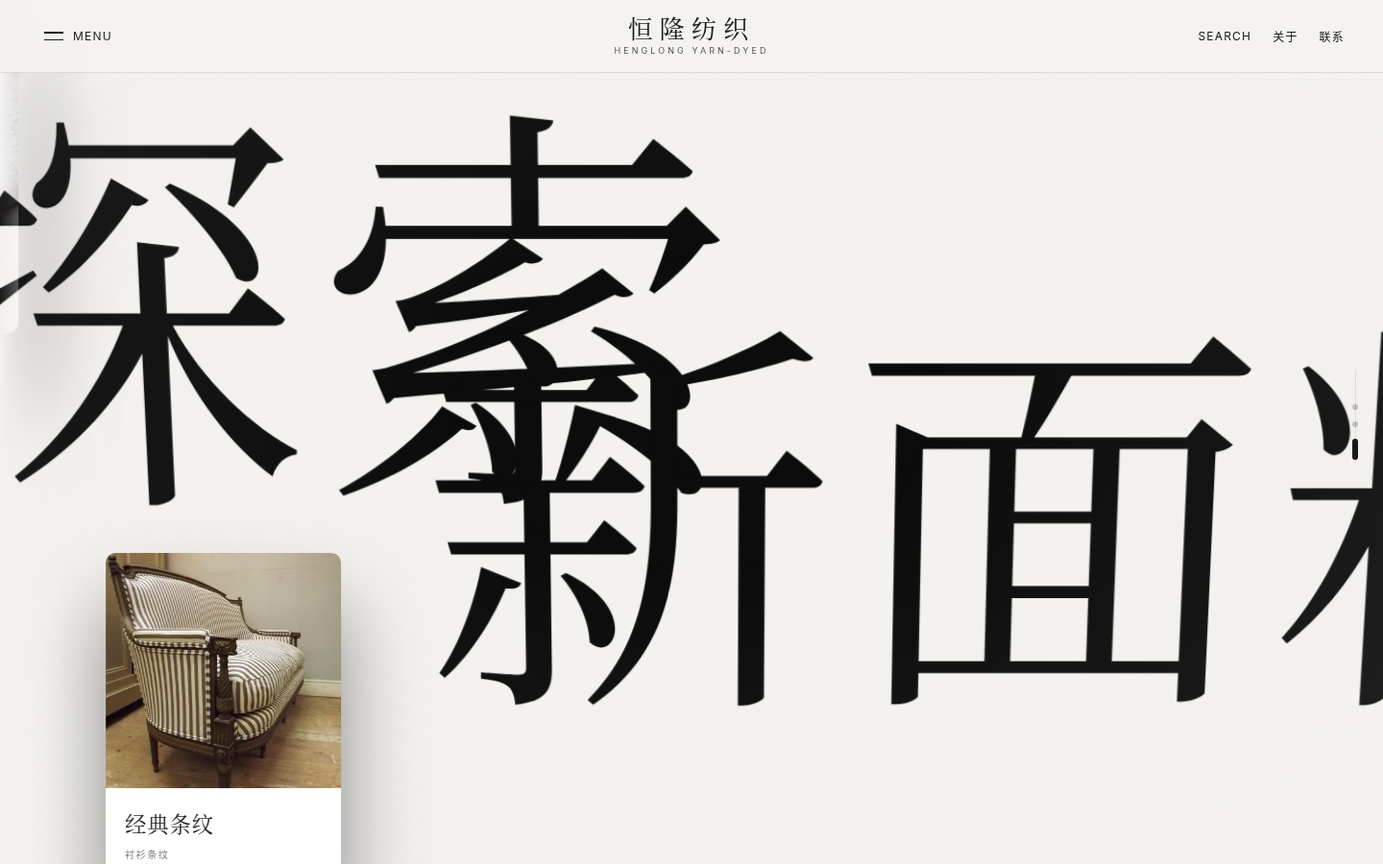
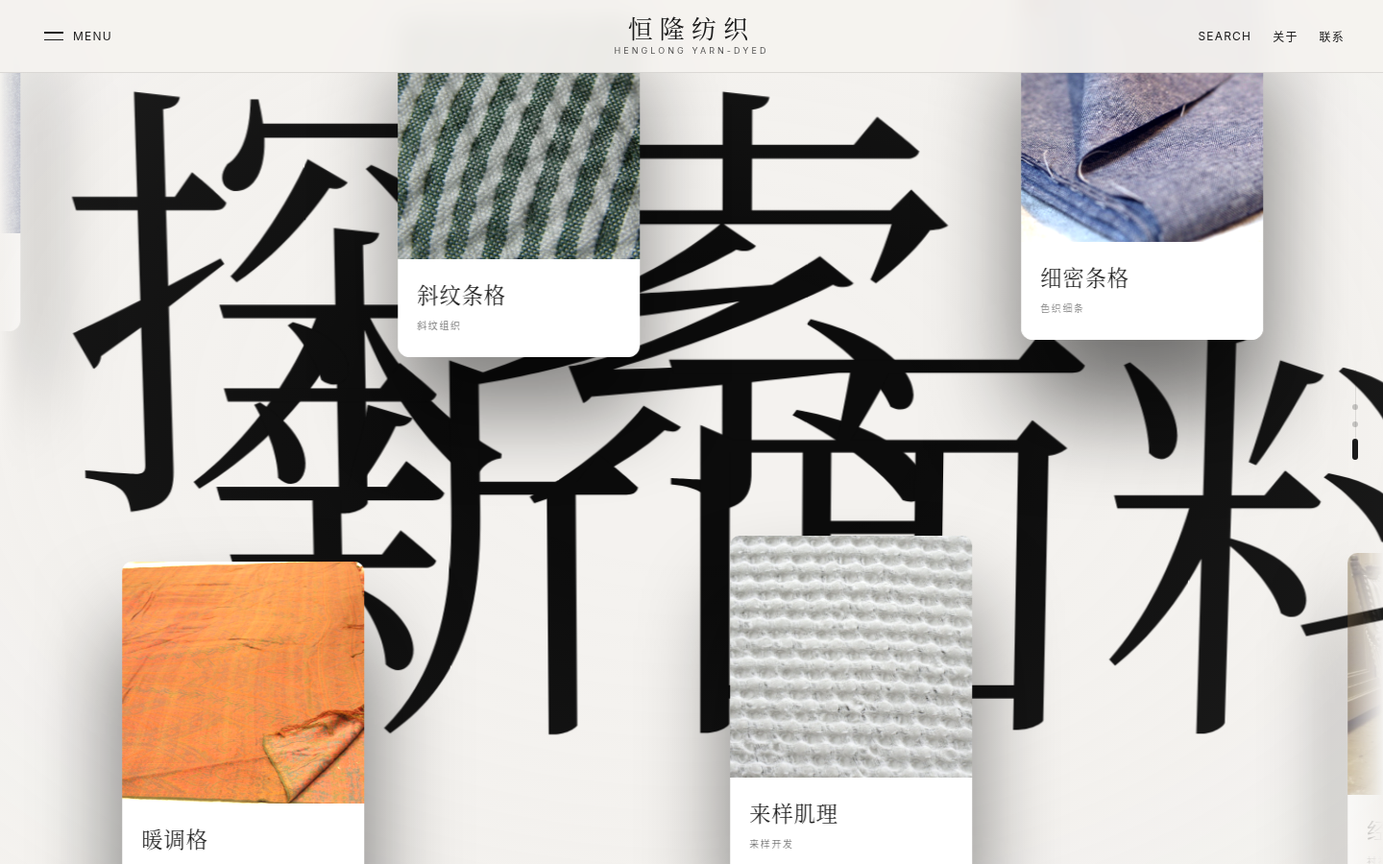
Polish home scroll-stage v23 vs Etro Textiles effect fidelity
Gentler --hw lead for richer midwipe fabric, wider soft curtain, denser
mid-cross cards, stronger lean/tilt, softer spring ω≈1.85/1.4, 2320vh pin.

diff --git a/frame-cards.html b/frame-cards.html
@@ -3,8 +3,8 @@
 <meta charset="utf-8"/><meta name="viewport" content="width=device-width,initial-scale=1"/>
 <title>Stage frame · cards</title>
 <link href="https://fonts.googleapis.com/css2?family=Bodoni+Moda:opsz,wght@6..96,400;6..96,500&family=Inter:wght@300;400;500&display=swap" rel="stylesheet"/>
-<link rel="stylesheet" href="css/style.css?v=22"/>
-<link rel="stylesheet" href="css/effects.css?v=22"/>
+<link rel="stylesheet" href="css/style.css?v=23"/>
+<link rel="stylesheet" href="css/effects.css?v=23"/>
 <style>
   body{margin:0;overflow:hidden;background:#F4F2EF}
   .site-header{position:fixed}
@@ -23,12 +23,12 @@
   <div class="header-right"><a href="products.html">Search</a><a href="about.html">关于</a><a href="contact.html">联系</a></div>
 </header>
 
-<section class="stage" data-stage data-phase="2" style="--p0:1;--hp:1;--hp2:1;--hw:1;--fp:0.72;--sp:0.6;--gs:0.8;--hold:0;--pop:0;--cross:0.88;--scrub:0;--depth:0.78;--ps:0.74;--p:0.74">
+<section class="stage" data-stage data-phase="2" style="--p0:1;--hp:1;--hp2:1;--hw:1;--fp:0.48;--sp:0.28;--gs:0.87;--hold:0;--pop:0;--cross:0.9;--scrub:0;--depth:0.5;--ps:0.62;--p:0.62">
   <div class="stage-pin">
     <div class="stage-cream" aria-hidden="true"></div>
     <div class="stage-giant" aria-hidden="true"><span class="g1">探索</span><span class="g2">新面料</span></div>
     <div class="stage-veil" aria-hidden="true"></div>
-    <div class="stage-floats"><div class="track"><a class="float-card" data-row="0" href="products.html" style="--row:0;--mx:0px;--r:-24deg;--t:-2vh;--d:0;--bob:12;--rowy:129.5;--lean:-11.2deg;--zi:48;--lift:28;--fs:1.17;--z:60px;--ry:-22deg;--rx:-9;--enter:1;--vis:1;--tilt:-12deg;--spin:0deg;--prox:0.70;--punch:0.52;opacity:1"><div class="fc-img"><img src="images/web/hl-01.jpg" alt="格伦格纹"/></div><div class="fc-label"><strong>格伦格纹</strong><span>色织条格</span></div></a><a class="float-card" data-row="1" href="products.html" style="--row:1;--mx:32px;--r:22deg;--t:63vh;--d:1;--bob:-10;--rowy:-139.1;--lean:12.7deg;--zi:57;--lift:35;--fs:1.17;--z:78px;--ry:22deg;--rx:-11;--enter:1;--vis:1;--tilt:12deg;--spin:0deg;--prox:0.80;--punch:0.67;opacity:1"><div class="fc-img"><img src="images/web/hl-02.jpg" alt="苏格兰纹"/></div><div class="fc-label"><strong>苏格兰纹</strong><span>格纹色织</span></div></a><a class="float-card" data-row="0" href="products.html" style="--row:0;--mx:-22px;--r:-21deg;--t:3vh;--d:2;--bob:16;--rowy:148.7;--lean:-14.2deg;--zi:62;--lift:42;--fs:1.17;--z:96px;--ry:-22deg;--rx:-9;--enter:1;--vis:1;--tilt:-12deg;--spin:0deg;--prox:0.90;--punch:0.82;opacity:1"><div class="fc-img"><img src="images/web/hl-05.jpg" alt="衬衫条纹"/></div><div class="fc-label"><strong>衬衫条纹</strong><span>衬衫向</span></div></a><a class="float-card" data-row="1" href="products.html" style="--row:1;--mx:40px;--r:23deg;--t:61vh;--d:3;--bob:-8;--rowy:-129.5;--lean:11.2deg;--zi:50;--lift:28;--fs:1.17;--z:60px;--ry:22deg;--rx:-11;--enter:1;--vis:1;--tilt:12deg;--spin:0deg;--prox:0.70;--punch:0.52;opacity:1"><div class="fc-img"><img src="images/web/mosaic-1.jpg" alt="多色格"/></div><div class="fc-label"><strong>多色格</strong><span>色织格纹</span></div></a><a class="float-card" data-row="0" href="products.html" style="--row:0;--mx:-14px;--r:-22deg;--t:-1vh;--d:4;--bob:11;--rowy:139.1;--lean:-12.7deg;--zi:55;--lift:35;--fs:1.17;--z:78px;--ry:-22deg;--rx:-9;--enter:1;--vis:1;--tilt:-12deg;--spin:0deg;--prox:0.80;--punch:0.67;opacity:1"><div class="fc-img"><img src="images/web/hl-04.jpg" alt="岩灰素织"/></div><div class="fc-label"><strong>岩灰素织</strong><span>素色色织</span></div></a><a class="float-card" data-row="1" href="products.html" style="--row:1;--mx:46px;--r:21deg;--t:65vh;--d:5;--bob:-15;--rowy:-148.7;--lean:14.2deg;--zi:64;--lift:42;--fs:1.17;--z:96px;--ry:22deg;--rx:-11;--enter:1;--vis:1;--tilt:12deg;--spin:0deg;--prox:0.90;--punch:0.82;opacity:1"><div class="fc-img"><img src="images/web/hl-07.jpg" alt="暖调格"/></div><div class="fc-label"><strong>暖调格</strong><span>家纺格调</span></div></a><a class="float-card" data-row="0" href="products.html" style="--row:0;--mx:-26px;--r:-23deg;--t:2vh;--d:6;--bob:9;--rowy:129.5;--lean:-11.2deg;--zi:48;--lift:28;--fs:1.17;--z:60px;--ry:-22deg;--rx:-9;--enter:1;--vis:1;--tilt:-12deg;--spin:0deg;--prox:0.70;--punch:0.52;opacity:1"><div class="fc-img"><img src="images/web/hl-06.jpg" alt="斜纹条格"/></div><div class="fc-label"><strong>斜纹条格</strong><span>斜纹组织</span></div></a><a class="float-card" data-row="1" href="products.html" style="--row:1;--mx:34px;--r:24deg;--t:62vh;--d:7;--bob:-13;--rowy:-139.1;--lean:12.7deg;--zi:57;--lift:35;--fs:1.17;--z:78px;--ry:22deg;--rx:-11;--enter:1;--vis:1;--tilt:12deg;--spin:0deg;--prox:0.80;--punch:0.67;opacity:1"><div class="fc-img"><img src="images/web/hl-08.jpg" alt="来样肌理"/></div><div class="fc-label"><strong>来样肌理</strong><span>来样开发</span></div></a><a class="float-card" data-row="0" href="products.html" style="--row:0;--mx:-10px;--r:-22deg;--t:0vh;--d:8;--bob:14;--rowy:148.7;--lean:-14.2deg;--zi:62;--lift:42;--fs:1.17;--z:96px;--ry:-22deg;--rx:-9;--enter:1;--vis:1;--tilt:-12deg;--spin:0deg;--prox:0.90;--punch:0.82;opacity:1"><div class="fc-img"><img src="images/web/hl-03.jpg" alt="细密条格"/></div><div class="fc-label"><strong>细密条格</strong><span>色织细条</span></div></a><a class="float-card" data-row="1" href="products.html" style="--row:1;--mx:28px;--r:20deg;--t:64vh;--d:9;--bob:-9;--rowy:-129.5;--lean:11.2deg;--zi:50;--lift:28;--fs:1.17;--z:60px;--ry:22deg;--rx:-11;--enter:1;--vis:1;--tilt:12deg;--spin:0deg;--prox:0.70;--punch:0.52;opacity:1"><div class="fc-img"><img src="images/web/stripes.jpg" alt="经典条纹"/></div><div class="fc-label"><strong>经典条纹</strong><span>衬衫条纹</span></div></a></div></div>
+    <div class="stage-floats"><div class="track"><a class="float-card" data-row="0" href="products.html" style="--row:0;--mx:0px;--r:-27deg;--t:-2vh;--d:0;--bob:12;--rowy:109.4;--lean:-16.7deg;--zi:49;--lift:28;--fs:1.18;--z:62px;--ry:-24deg;--rx:-10;--enter:1;--vis:1;--tilt:-13deg;--spin:0deg;--prox:0.72;--punch:0.55;opacity:1"><div class="fc-img"><img src="images/web/hl-01.jpg" alt="格伦格纹"/></div><div class="fc-label"><strong>格伦格纹</strong><span>色织条格</span></div></a><a class="float-card" data-row="1" href="products.html" style="--row:1;--mx:32px;--r:26deg;--t:63vh;--d:1;--bob:-10;--rowy:-118.3;--lean:18.7deg;--zi:58;--lift:35;--fs:1.18;--z:80px;--ry:24deg;--rx:-12;--enter:1;--vis:1;--tilt:13deg;--spin:0deg;--prox:0.81;--punch:0.69;opacity:1"><div class="fc-img"><img src="images/web/hl-02.jpg" alt="苏格兰纹"/></div><div class="fc-label"><strong>苏格兰纹</strong><span>格纹色织</span></div></a><a class="float-card" data-row="0" href="products.html" style="--row:0;--mx:-22px;--r:-25deg;--t:3vh;--d:2;--bob:16;--rowy:127.3;--lean:-20.6deg;--zi:62;--lift:42;--fs:1.18;--z:98px;--ry:-24deg;--rx:-10;--enter:1;--vis:1;--tilt:-13deg;--spin:0deg;--prox:0.90;--punch:0.83;opacity:1"><div class="fc-img"><img src="images/web/hl-05.jpg" alt="衬衫条纹"/></div><div class="fc-label"><strong>衬衫条纹</strong><span>衬衫向</span></div></a><a class="float-card" data-row="1" href="products.html" style="--row:1;--mx:40px;--r:27deg;--t:61vh;--d:3;--bob:-8;--rowy:-109.4;--lean:16.7deg;--zi:51;--lift:28;--fs:1.18;--z:62px;--ry:24deg;--rx:-12;--enter:1;--vis:1;--tilt:13deg;--spin:0deg;--prox:0.72;--punch:0.55;opacity:1"><div class="fc-img"><img src="images/web/mosaic-1.jpg" alt="多色格"/></div><div class="fc-label"><strong>多色格</strong><span>色织格纹</span></div></a><a class="float-card" data-row="0" href="products.html" style="--row:0;--mx:-14px;--r:-26deg;--t:-1vh;--d:4;--bob:11;--rowy:118.3;--lean:-18.7deg;--zi:56;--lift:35;--fs:1.18;--z:80px;--ry:-24deg;--rx:-10;--enter:1;--vis:1;--tilt:-13deg;--spin:0deg;--prox:0.81;--punch:0.69;opacity:1"><div class="fc-img"><img src="images/web/hl-04.jpg" alt="岩灰素织"/></div><div class="fc-label"><strong>岩灰素织</strong><span>素色色织</span></div></a><a class="float-card" data-row="1" href="products.html" style="--row:1;--mx:46px;--r:25deg;--t:65vh;--d:5;--bob:-15;--rowy:-127.3;--lean:20.6deg;--zi:64;--lift:42;--fs:1.18;--z:98px;--ry:24deg;--rx:-12;--enter:1;--vis:1;--tilt:13deg;--spin:0deg;--prox:0.90;--punch:0.83;opacity:1"><div class="fc-img"><img src="images/web/hl-07.jpg" alt="暖调格"/></div><div class="fc-label"><strong>暖调格</strong><span>家纺格调</span></div></a><a class="float-card" data-row="0" href="products.html" style="--row:0;--mx:-26px;--r:-27deg;--t:2vh;--d:6;--bob:9;--rowy:109.4;--lean:-16.7deg;--zi:49;--lift:28;--fs:1.18;--z:62px;--ry:-24deg;--rx:-10;--enter:1;--vis:1;--tilt:-13deg;--spin:0deg;--prox:0.72;--punch:0.55;opacity:1"><div class="fc-img"><img src="images/web/hl-06.jpg" alt="斜纹条格"/></div><div class="fc-label"><strong>斜纹条格</strong><span>斜纹组织</span></div></a><a class="float-card" data-row="1" href="products.html" style="--row:1;--mx:34px;--r:28deg;--t:62vh;--d:7;--bob:-13;--rowy:-118.3;--lean:18.7deg;--zi:58;--lift:35;--fs:1.18;--z:80px;--ry:24deg;--rx:-12;--enter:1;--vis:1;--tilt:13deg;--spin:0deg;--prox:0.81;--punch:0.69;opacity:1"><div class="fc-img"><img src="images/web/hl-08.jpg" alt="来样肌理"/></div><div class="fc-label"><strong>来样肌理</strong><span>来样开发</span></div></a><a class="float-card" data-row="0" href="products.html" style="--row:0;--mx:-10px;--r:-26deg;--t:0vh;--d:8;--bob:14;--rowy:127.3;--lean:-20.6deg;--zi:62;--lift:42;--fs:1.18;--z:98px;--ry:-24deg;--rx:-10;--enter:1;--vis:1;--tilt:-13deg;--spin:0deg;--prox:0.90;--punch:0.83;opacity:1"><div class="fc-img"><img src="images/web/hl-03.jpg" alt="细密条格"/></div><div class="fc-label"><strong>细密条格</strong><span>色织细条</span></div></a><a class="float-card" data-row="1" href="products.html" style="--row:1;--mx:28px;--r:24deg;--t:64vh;--d:9;--bob:-9;--rowy:-109.4;--lean:16.7deg;--zi:51;--lift:28;--fs:1.18;--z:62px;--ry:24deg;--rx:-12;--enter:1;--vis:1;--tilt:13deg;--spin:0deg;--prox:0.72;--punch:0.55;opacity:1"><div class="fc-img"><img src="images/web/stripes.jpg" alt="经典条纹"/></div><div class="fc-label"><strong>经典条纹</strong><span>衬衫条纹</span></div></a></div></div>
     <div class="stage-hero" style="opacity:0;pointer-events:none"></div>
     <div class="stage-progress"><i></i><i></i><i></i></div>
   </div>
@@ -36,7 +36,7 @@
 <script>
   const track=document.querySelector('.track');
   const dist=Math.max(track.scrollWidth-innerWidth*0.05,1);
-  track.style.transform='translate3d('+(-0.72*dist)+'px,0,0)';
+  track.style.transform='translate3d('+(-0.48*dist)+'px,0,0)';
   document.documentElement.dataset.shotReady='1';
 </script>
 </body></html>

diff --git a/frame-peek.html b/frame-peek.html
@@ -3,8 +3,8 @@
 <meta charset="utf-8"/><meta name="viewport" content="width=device-width,initial-scale=1"/>
 <title>Stage frame · peek</title>
 <link href="https://fonts.googleapis.com/css2?family=Bodoni+Moda:opsz,wght@6..96,400;6..96,500&family=Inter:wght@300;400;500&display=swap" rel="stylesheet"/>
-<link rel="stylesheet" href="css/style.css?v=22"/>
-<link rel="stylesheet" href="css/effects.css?v=22"/>
+<link rel="stylesheet" href="css/style.css?v=23"/>
+<link rel="stylesheet" href="css/effects.css?v=23"/>
 <style>
   body{margin:0;overflow:hidden;background:#F4F2EF}
   .site-header{position:fixed}
@@ -23,12 +23,12 @@
   <div class="header-right"><a href="products.html">Search</a><a href="about.html">关于</a><a href="contact.html">联系</a></div>
 </header>
 
-<section class="stage" data-stage data-phase="2" style="--p0:1;--hp:1;--hp2:1;--hw:1;--fp:0.16;--sp:0;--gs:0.95;--hold:0.3;--pop:0.12;--cross:0.35;--scrub:0;--depth:0.16;--ps:0.54;--p:0.54">
+<section class="stage" data-stage data-phase="2" style="--p0:1;--hp:1;--hp2:1;--hw:1;--fp:0.18;--sp:0;--gs:0.95;--hold:0.28;--pop:0.1;--cross:0.4;--scrub:0;--depth:0.18;--ps:0.56;--p:0.56">
   <div class="stage-pin">
     <div class="stage-cream" aria-hidden="true"></div>
     <div class="stage-giant" aria-hidden="true"><span class="g1">探索</span><span class="g2">新面料</span></div>
     <div class="stage-veil" aria-hidden="true"></div>
-    <div class="stage-floats"><div class="track"><a class="float-card" data-row="0" href="products.html" style="--row:0;--mx:0px;--r:-24deg;--t:-2vh;--d:0;--bob:12;--rowy:78.0;--lean:-11.2deg;--zi:48;--lift:28;--fs:1.17;--z:60px;--ry:-22deg;--rx:-9;--enter:1;--vis:1;--tilt:-12deg;--spin:0deg;--prox:0.70;--punch:0.52;opacity:1"><div class="fc-img"><img src="images/web/hl-01.jpg" alt="格伦格纹"/></div><div class="fc-label"><strong>格伦格纹</strong><span>色织条格</span></div></a><a class="float-card" data-row="1" href="products.html" style="--row:1;--mx:32px;--r:22deg;--t:63vh;--d:1;--bob:-10;--rowy:-87.6;--lean:12.7deg;--zi:57;--lift:35;--fs:1.17;--z:78px;--ry:22deg;--rx:-11;--enter:1;--vis:1;--tilt:12deg;--spin:0deg;--prox:0.80;--punch:0.67;opacity:1"><div class="fc-img"><img src="images/web/hl-02.jpg" alt="苏格兰纹"/></div><div class="fc-label"><strong>苏格兰纹</strong><span>格纹色织</span></div></a><a class="float-card" data-row="0" href="products.html" style="--row:0;--mx:-22px;--r:-21deg;--t:3vh;--d:2;--bob:16;--rowy:97.2;--lean:-14.2deg;--zi:62;--lift:42;--fs:1.17;--z:96px;--ry:-22deg;--rx:-9;--enter:1;--vis:1;--tilt:-12deg;--spin:0deg;--prox:0.90;--punch:0.82;opacity:1"><div class="fc-img"><img src="images/web/hl-05.jpg" alt="衬衫条纹"/></div><div class="fc-label"><strong>衬衫条纹</strong><span>衬衫向</span></div></a><a class="float-card" data-row="1" href="products.html" style="--row:1;--mx:40px;--r:23deg;--t:61vh;--d:3;--bob:-8;--rowy:-78.0;--lean:11.2deg;--zi:50;--lift:28;--fs:1.17;--z:60px;--ry:22deg;--rx:-11;--enter:1;--vis:1;--tilt:12deg;--spin:0deg;--prox:0.70;--punch:0.52;opacity:1"><div class="fc-img"><img src="images/web/mosaic-1.jpg" alt="多色格"/></div><div class="fc-label"><strong>多色格</strong><span>色织格纹</span></div></a><a class="float-card" data-row="0" href="products.html" style="--row:0;--mx:-14px;--r:-22deg;--t:-1vh;--d:4;--bob:11;--rowy:87.6;--lean:-12.7deg;--zi:55;--lift:35;--fs:1.17;--z:78px;--ry:-22deg;--rx:-9;--enter:1;--vis:1;--tilt:-12deg;--spin:0deg;--prox:0.80;--punch:0.67;opacity:1"><div class="fc-img"><img src="images/web/hl-04.jpg" alt="岩灰素织"/></div><div class="fc-label"><strong>岩灰素织</strong><span>素色色织</span></div></a><a class="float-card" data-row="1" href="products.html" style="--row:1;--mx:46px;--r:21deg;--t:65vh;--d:5;--bob:-15;--rowy:-97.2;--lean:14.2deg;--zi:64;--lift:42;--fs:1.17;--z:96px;--ry:22deg;--rx:-11;--enter:1;--vis:1;--tilt:12deg;--spin:0deg;--prox:0.90;--punch:0.82;opacity:1"><div class="fc-img"><img src="images/web/hl-07.jpg" alt="暖调格"/></div><div class="fc-label"><strong>暖调格</strong><span>家纺格调</span></div></a><a class="float-card" data-row="0" href="products.html" style="--row:0;--mx:-26px;--r:-23deg;--t:2vh;--d:6;--bob:9;--rowy:78.0;--lean:-11.2deg;--zi:48;--lift:28;--fs:1.17;--z:60px;--ry:-22deg;--rx:-9;--enter:1;--vis:1;--tilt:-12deg;--spin:0deg;--prox:0.70;--punch:0.52;opacity:1"><div class="fc-img"><img src="images/web/hl-06.jpg" alt="斜纹条格"/></div><div class="fc-label"><strong>斜纹条格</strong><span>斜纹组织</span></div></a><a class="float-card" data-row="1" href="products.html" style="--row:1;--mx:34px;--r:24deg;--t:62vh;--d:7;--bob:-13;--rowy:-87.6;--lean:12.7deg;--zi:57;--lift:35;--fs:1.17;--z:78px;--ry:22deg;--rx:-11;--enter:1;--vis:1;--tilt:12deg;--spin:0deg;--prox:0.80;--punch:0.67;opacity:1"><div class="fc-img"><img src="images/web/hl-08.jpg" alt="来样肌理"/></div><div class="fc-label"><strong>来样肌理</strong><span>来样开发</span></div></a><a class="float-card" data-row="0" href="products.html" style="--row:0;--mx:-10px;--r:-22deg;--t:0vh;--d:8;--bob:14;--rowy:97.2;--lean:-14.2deg;--zi:62;--lift:42;--fs:1.17;--z:96px;--ry:-22deg;--rx:-9;--enter:1;--vis:1;--tilt:-12deg;--spin:0deg;--prox:0.90;--punch:0.82;opacity:1"><div class="fc-img"><img src="images/web/hl-03.jpg" alt="细密条格"/></div><div class="fc-label"><strong>细密条格</strong><span>色织细条</span></div></a><a class="float-card" data-row="1" href="products.html" style="--row:1;--mx:28px;--r:20deg;--t:64vh;--d:9;--bob:-9;--rowy:-78.0;--lean:11.2deg;--zi:50;--lift:28;--fs:1.17;--z:60px;--ry:22deg;--rx:-11;--enter:1;--vis:1;--tilt:12deg;--spin:0deg;--prox:0.70;--punch:0.52;opacity:1"><div class="fc-img"><img src="images/web/stripes.jpg" alt="经典条纹"/></div><div class="fc-label"><strong>经典条纹</strong><span>衬衫条纹</span></div></a></div></div>
+    <div class="stage-floats"><div class="track"><a class="float-card" data-row="0" href="products.html" style="--row:0;--mx:0px;--r:-27deg;--t:-2vh;--d:0;--bob:12;--rowy:81.8;--lean:-16.7deg;--zi:49;--lift:28;--fs:1.18;--z:62px;--ry:-24deg;--rx:-10;--enter:1;--vis:1;--tilt:-13deg;--spin:0deg;--prox:0.72;--punch:0.55;opacity:1"><div class="fc-img"><img src="images/web/hl-01.jpg" alt="格伦格纹"/></div><div class="fc-label"><strong>格伦格纹</strong><span>色织条格</span></div></a><a class="float-card" data-row="1" href="products.html" style="--row:1;--mx:32px;--r:26deg;--t:63vh;--d:1;--bob:-10;--rowy:-90.7;--lean:18.7deg;--zi:58;--lift:35;--fs:1.18;--z:80px;--ry:24deg;--rx:-12;--enter:1;--vis:1;--tilt:13deg;--spin:0deg;--prox:0.81;--punch:0.69;opacity:1"><div class="fc-img"><img src="images/web/hl-02.jpg" alt="苏格兰纹"/></div><div class="fc-label"><strong>苏格兰纹</strong><span>格纹色织</span></div></a><a class="float-card" data-row="0" href="products.html" style="--row:0;--mx:-22px;--r:-25deg;--t:3vh;--d:2;--bob:16;--rowy:99.7;--lean:-20.6deg;--zi:62;--lift:42;--fs:1.18;--z:98px;--ry:-24deg;--rx:-10;--enter:1;--vis:1;--tilt:-13deg;--spin:0deg;--prox:0.90;--punch:0.83;opacity:1"><div class="fc-img"><img src="images/web/hl-05.jpg" alt="衬衫条纹"/></div><div class="fc-label"><strong>衬衫条纹</strong><span>衬衫向</span></div></a><a class="float-card" data-row="1" href="products.html" style="--row:1;--mx:40px;--r:27deg;--t:61vh;--d:3;--bob:-8;--rowy:-81.8;--lean:16.7deg;--zi:51;--lift:28;--fs:1.18;--z:62px;--ry:24deg;--rx:-12;--enter:1;--vis:1;--tilt:13deg;--spin:0deg;--prox:0.72;--punch:0.55;opacity:1"><div class="fc-img"><img src="images/web/mosaic-1.jpg" alt="多色格"/></div><div class="fc-label"><strong>多色格</strong><span>色织格纹</span></div></a><a class="float-card" data-row="0" href="products.html" style="--row:0;--mx:-14px;--r:-26deg;--t:-1vh;--d:4;--bob:11;--rowy:90.7;--lean:-18.7deg;--zi:56;--lift:35;--fs:1.18;--z:80px;--ry:-24deg;--rx:-10;--enter:1;--vis:1;--tilt:-13deg;--spin:0deg;--prox:0.81;--punch:0.69;opacity:1"><div class="fc-img"><img src="images/web/hl-04.jpg" alt="岩灰素织"/></div><div class="fc-label"><strong>岩灰素织</strong><span>素色色织</span></div></a><a class="float-card" data-row="1" href="products.html" style="--row:1;--mx:46px;--r:25deg;--t:65vh;--d:5;--bob:-15;--rowy:-99.7;--lean:20.6deg;--zi:64;--lift:42;--fs:1.18;--z:98px;--ry:24deg;--rx:-12;--enter:1;--vis:1;--tilt:13deg;--spin:0deg;--prox:0.90;--punch:0.83;opacity:1"><div class="fc-img"><img src="images/web/hl-07.jpg" alt="暖调格"/></div><div class="fc-label"><strong>暖调格</strong><span>家纺格调</span></div></a><a class="float-card" data-row="0" href="products.html" style="--row:0;--mx:-26px;--r:-27deg;--t:2vh;--d:6;--bob:9;--rowy:81.8;--lean:-16.7deg;--zi:49;--lift:28;--fs:1.18;--z:62px;--ry:-24deg;--rx:-10;--enter:1;--vis:1;--tilt:-13deg;--spin:0deg;--prox:0.72;--punch:0.55;opacity:1"><div class="fc-img"><img src="images/web/hl-06.jpg" alt="斜纹条格"/></div><div class="fc-label"><strong>斜纹条格</strong><span>斜纹组织</span></div></a><a class="float-card" data-row="1" href="products.html" style="--row:1;--mx:34px;--r:28deg;--t:62vh;--d:7;--bob:-13;--rowy:-90.7;--lean:18.7deg;--zi:58;--lift:35;--fs:1.18;--z:80px;--ry:24deg;--rx:-12;--enter:1;--vis:1;--tilt:13deg;--spin:0deg;--prox:0.81;--punch:0.69;opacity:1"><div class="fc-img"><img src="images/web/hl-08.jpg" alt="来样肌理"/></div><div class="fc-label"><strong>来样肌理</strong><span>来样开发</span></div></a><a class="float-card" data-row="0" href="products.html" style="--row:0;--mx:-10px;--r:-26deg;--t:0vh;--d:8;--bob:14;--rowy:99.7;--lean:-20.6deg;--zi:62;--lift:42;--fs:1.18;--z:98px;--ry:-24deg;--rx:-10;--enter:1;--vis:1;--tilt:-13deg;--spin:0deg;--prox:0.90;--punch:0.83;opacity:1"><div class="fc-img"><img src="images/web/hl-03.jpg" alt="细密条格"/></div><div class="fc-label"><strong>细密条格</strong><span>色织细条</span></div></a><a class="float-card" data-row="1" href="products.html" style="--row:1;--mx:28px;--r:24deg;--t:64vh;--d:9;--bob:-9;--rowy:-81.8;--lean:16.7deg;--zi:51;--lift:28;--fs:1.18;--z:62px;--ry:24deg;--rx:-12;--enter:1;--vis:1;--tilt:13deg;--spin:0deg;--prox:0.72;--punch:0.55;opacity:1"><div class="fc-img"><img src="images/web/stripes.jpg" alt="经典条纹"/></div><div class="fc-label"><strong>经典条纹</strong><span>衬衫条纹</span></div></a></div></div>
     <div class="stage-hero" style="opacity:0;pointer-events:none"></div>
     <div class="stage-progress"><i></i><i></i><i></i></div>
   </div>
@@ -36,7 +36,7 @@
 <script>
   const track=document.querySelector('.track');
   const dist=Math.max(track.scrollWidth-innerWidth*0.05,1);
-  track.style.transform='translate3d('+(-0.16*dist)+'px,0,0)';
+  track.style.transform='translate3d('+(-0.18*dist)+'px,0,0)';
   document.documentElement.dataset.shotReady='1';
 </script>
 </body></html>

diff --git a/index.html b/index.html
@@ -8,8 +8,8 @@
 <link rel="preconnect" href="https://fonts.googleapis.com" />
 <link rel="preconnect" href="https://fonts.gstatic.com" crossorigin />
 <link href="https://fonts.googleapis.com/css2?family=Bodoni+Moda:opsz,wght@6..96,400;6..96,500;6..96,600&family=Inter:wght@300;400;500&display=swap" rel="stylesheet" />
-<link rel="stylesheet" href="css/style.css?v=22" />
-<link rel="stylesheet" href="css/effects.css?v=22" />
+<link rel="stylesheet" href="css/style.css?v=23" />
+<link rel="stylesheet" href="css/effects.css?v=23" />
 </head>
 <body>
 <a class="side-rail left" href="products.html">色卡目录</a>
@@ -44,7 +44,7 @@
     <div class="stage-cream" aria-hidden="true"></div>
     <div class="stage-giant" aria-hidden="true"><span class="g1">探索</span><span class="g2">新面料</span></div>
     <div class="stage-veil" aria-hidden="true"></div>
-    <div class="stage-floats"><a class="float-card" data-row="0" href="products.html" style="--row:0;--mx:0px;--r:-24deg;--t:-2vh;--d:0"><div class="fc-img"><img src="images/web/hl-01.jpg" alt="格伦格纹"/></div><div class="fc-label"><strong>格伦格纹</strong><span>色织条格</span></div></a><a class="float-card" data-row="1" href="products.html" style="--row:1;--mx:32px;--r:22deg;--t:63vh;--d:1"><div class="fc-img"><img src="images/web/hl-02.jpg" alt="苏格兰纹"/></div><div class="fc-label"><strong>苏格兰纹</strong><span>格纹色织</span></div></a><a class="float-card" data-row="0" href="products.html" style="--row:0;--mx:-22px;--r:-21deg;--t:3vh;--d:2"><div class="fc-img"><img src="images/web/hl-05.jpg" alt="衬衫条纹"/></div><div class="fc-label"><strong>衬衫条纹</strong><span>衬衫向</span></div></a><a class="float-card" data-row="1" href="products.html" style="--row:1;--mx:40px;--r:23deg;--t:61vh;--d:3"><div class="fc-img"><img src="images/web/mosaic-1.jpg" alt="多色格"/></div><div class="fc-label"><strong>多色格</strong><span>色织格纹</span></div></a><a class="float-card" data-row="0" href="products.html" style="--row:0;--mx:-14px;--r:-22deg;--t:-1vh;--d:4"><div class="fc-img"><img src="images/web/hl-04.jpg" alt="岩灰素织"/></div><div class="fc-label"><strong>岩灰素织</strong><span>素色色织</span></div></a><a class="float-card" data-row="1" href="products.html" style="--row:1;--mx:46px;--r:21deg;--t:65vh;--d:5"><div class="fc-img"><img src="images/web/hl-07.jpg" alt="暖调格"/></div><div class="fc-label"><strong>暖调格</strong><span>家纺格调</span></div></a><a class="float-card" data-row="0" href="products.html" style="--row:0;--mx:-26px;--r:-23deg;--t:2vh;--d:6"><div class="fc-img"><img src="images/web/hl-06.jpg" alt="斜纹条格"/></div><div class="fc-label"><strong>斜纹条格</strong><span>斜纹组织</span></div></a><a class="float-card" data-row="1" href="products.html" style="--row:1;--mx:34px;--r:24deg;--t:62vh;--d:7"><div class="fc-img"><img src="images/web/hl-08.jpg" alt="来样肌理"/></div><div class="fc-label"><strong>来样肌理</strong><span>来样开发</span></div></a><a class="float-card" data-row="0" href="products.html" style="--row:0;--mx:-10px;--r:-22deg;--t:0vh;--d:8"><div class="fc-img"><img src="images/web/hl-03.jpg" alt="细密条格"/></div><div class="fc-label"><strong>细密条格</strong><span>色织细条</span></div></a><a class="float-card" data-row="1" href="products.html" style="--row:1;--mx:28px;--r:20deg;--t:64vh;--d:9"><div class="fc-img"><img src="images/web/stripes.jpg" alt="经典条纹"/></div><div class="fc-label"><strong>经典条纹</strong><span>衬衫条纹</span></div></a></div>
+    <div class="stage-floats"><a class="float-card" data-row="0" href="products.html" style="--row:0;--mx:0px;--r:-27deg;--t:-2vh;--d:0"><div class="fc-img"><img src="images/web/hl-01.jpg" alt="格伦格纹"/></div><div class="fc-label"><strong>格伦格纹</strong><span>色织条格</span></div></a><a class="float-card" data-row="1" href="products.html" style="--row:1;--mx:32px;--r:26deg;--t:63vh;--d:1"><div class="fc-img"><img src="images/web/hl-02.jpg" alt="苏格兰纹"/></div><div class="fc-label"><strong>苏格兰纹</strong><span>格纹色织</span></div></a><a class="float-card" data-row="0" href="products.html" style="--row:0;--mx:-22px;--r:-25deg;--t:3vh;--d:2"><div class="fc-img"><img src="images/web/hl-05.jpg" alt="衬衫条纹"/></div><div class="fc-label"><strong>衬衫条纹</strong><span>衬衫向</span></div></a><a class="float-card" data-row="1" href="products.html" style="--row:1;--mx:40px;--r:27deg;--t:61vh;--d:3"><div class="fc-img"><img src="images/web/mosaic-1.jpg" alt="多色格"/></div><div class="fc-label"><strong>多色格</strong><span>色织格纹</span></div></a><a class="float-card" data-row="0" href="products.html" style="--row:0;--mx:-14px;--r:-26deg;--t:-1vh;--d:4"><div class="fc-img"><img src="images/web/hl-04.jpg" alt="岩灰素织"/></div><div class="fc-label"><strong>岩灰素织</strong><span>素色色织</span></div></a><a class="float-card" data-row="1" href="products.html" style="--row:1;--mx:46px;--r:25deg;--t:65vh;--d:5"><div class="fc-img"><img src="images/web/hl-07.jpg" alt="暖调格"/></div><div class="fc-label"><strong>暖调格</strong><span>家纺格调</span></div></a><a class="float-card" data-row="0" href="products.html" style="--row:0;--mx:-26px;--r:-27deg;--t:2vh;--d:6"><div class="fc-img"><img src="images/web/hl-06.jpg" alt="斜纹条格"/></div><div class="fc-label"><strong>斜纹条格</strong><span>斜纹组织</span></div></a><a class="float-card" data-row="1" href="products.html" style="--row:1;--mx:34px;--r:28deg;--t:62vh;--d:7"><div class="fc-img"><img src="images/web/hl-08.jpg" alt="来样肌理"/></div><div class="fc-label"><strong>来样肌理</strong><span>来样开发</span></div></a><a class="float-card" data-row="0" href="products.html" style="--row:0;--mx:-10px;--r:-26deg;--t:0vh;--d:8"><div class="fc-img"><img src="images/web/hl-03.jpg" alt="细密条格"/></div><div class="fc-label"><strong>细密条格</strong><span>色织细条</span></div></a><a class="float-card" data-row="1" href="products.html" style="--row:1;--mx:28px;--r:24deg;--t:64vh;--d:9"><div class="fc-img"><img src="images/web/stripes.jpg" alt="经典条纹"/></div><div class="fc-label"><strong>经典条纹</strong><span>衬衫条纹</span></div></a></div>
     <div class="stage-hero">
       <div class="hero-media"><img src="images/web/hero.jpg" alt="色织格纹布面特写" /></div>
       <div class="hero-content first">
@@ -121,5 +121,5 @@
   <div>Yarn-Dyed Lookbook</div>
 </footer>
 <script src="js/main.js?v=17"></script>
-<script src="js/effects.js?v=22"></script>
+<script src="js/effects.js?v=23"></script>
 </body></html>

diff --git a/css/effects.css b/css/effects.css
@@ -5,7 +5,7 @@ html{scroll-behavior:auto}
 .site-header.on-hero .wordmark small{opacity:.9}
 
 /* ---- pinned lookbook stage ---- */
-.stage{position:relative;height:2200vh;background:#F4F2EF;overscroll-behavior:contain}
+.stage{position:relative;height:2320vh;background:#F4F2EF;overscroll-behavior:contain}
 .stage-pin{
   position:sticky;top:0;
   height:100vh;height:100dvh;height:100svh;height:100lvh;
@@ -26,23 +26,25 @@ html{scroll-behavior:auto}
   position:absolute;inset:0;z-index:4;overflow:hidden;will-change:transform,mask-image,opacity;
   /* soft curtain wipe — --hw peels slightly ahead of type (--hp) */
   -webkit-mask-image:linear-gradient(
-    190deg,
+    192deg,
     #000 0%,
-    #000 calc((1 - var(--hw,var(--hp,0))) * 100% - 18vh),
-    rgba(0,0,0,.94) calc((1 - var(--hw,var(--hp,0))) * 100% - 2.8vh),
-    rgba(0,0,0,.32) calc((1 - var(--hw,var(--hp,0))) * 100% + 5vh),
-    transparent calc((1 - var(--hw,var(--hp,0))) * 100% + 13.5vh)
+    #000 calc((1 - var(--hw,var(--hp,0))) * 100% - 20vh),
+    rgba(0,0,0,.95) calc((1 - var(--hw,var(--hp,0))) * 100% - 3vh),
+    rgba(0,0,0,.45) calc((1 - var(--hw,var(--hp,0))) * 100% + 6vh),
+    rgba(0,0,0,.12) calc((1 - var(--hw,var(--hp,0))) * 100% + 12vh),
+    transparent calc((1 - var(--hw,var(--hp,0))) * 100% + 18vh)
   );
   mask-image:linear-gradient(
-    190deg,
+    192deg,
     #000 0%,
-    #000 calc((1 - var(--hw,var(--hp,0))) * 100% - 18vh),
-    rgba(0,0,0,.94) calc((1 - var(--hw,var(--hp,0))) * 100% - 2.8vh),
-    rgba(0,0,0,.32) calc((1 - var(--hw,var(--hp,0))) * 100% + 5vh),
-    transparent calc((1 - var(--hw,var(--hp,0))) * 100% + 13.5vh)
+    #000 calc((1 - var(--hw,var(--hp,0))) * 100% - 20vh),
+    rgba(0,0,0,.95) calc((1 - var(--hw,var(--hp,0))) * 100% - 3vh),
+    rgba(0,0,0,.45) calc((1 - var(--hw,var(--hp,0))) * 100% + 6vh),
+    rgba(0,0,0,.12) calc((1 - var(--hw,var(--hp,0))) * 100% + 12vh),
+    transparent calc((1 - var(--hw,var(--hp,0))) * 100% + 18vh)
   );
-  transform:translate3d(calc(var(--hw,var(--hp,0))*-3.2vw),calc(var(--hw,var(--hp,0))*-40vh),0) scale(calc(1 - var(--hw,var(--hp,0))*.17)) rotate(calc(var(--hw,var(--hp,0))*-0.6deg));
-  opacity:calc(1 - var(--hw,var(--hp,0))*0.78);
+  transform:translate3d(calc(var(--hw,var(--hp,0))*-2.8vw),calc(var(--hw,var(--hp,0))*-36vh),0) scale(calc(1 - var(--hw,var(--hp,0))*.14)) rotate(calc(var(--hw,var(--hp,0))*-0.45deg));
+  opacity:calc(1 - var(--hw,var(--hp,0))*0.48);
   pointer-events:auto;
 }
 .stage[data-phase="2"] .stage-hero{pointer-events:none}
@@ -120,7 +122,7 @@ html{scroll-behavior:auto}
   font-size:calc(37vw * var(--gs,1));
   transform:perspective(920px) rotateX(calc(var(--depth,0)*-5.6deg)) translate3d(0,calc((1 - var(--hp,0))*78vh + var(--fp,0)*-1.1vh),0) scale(calc(.46 + var(--hp,0)*.54 + var(--hold,0)*.11 + var(--pop,0)*.11 + var(--cross,0)*.02));
   /* rise opacity faster mid-wipe so type reads under peeling hero */
-  opacity:min(1, calc(var(--hp,0) * 1.8 - var(--fp,0)*.05));
+  opacity:min(1, calc(var(--hp,0) * 1.95 - var(--fp,0)*.05));
   user-select:none;pointer-events:none;text-align:center;
   /* quartic snap — clears even earlier midwipe */
   filter:contrast(1.32) blur(calc((1 - var(--hp,0)) * (1 - var(--hp,0)) * (1 - var(--hp,0)) * (1 - var(--hp,0)) * 26px));
@@ -130,12 +132,12 @@ html{scroll-behavior:auto}
 .stage-giant span{display:block;white-space:nowrap;will-change:transform,opacity}
 /* line stagger on reveal; stay centered while early cards cross; split via --sp */
 .stage-giant .g1{
-  transform:translate3d(calc(var(--sp,0)*-44vw), calc((1 - var(--hp,0))*10vh), 0);
-  opacity:calc(0.55 + var(--hp,0)*.45);
+  transform:translate3d(calc(var(--sp,0)*-46vw), calc((1 - var(--hp,0))*11vh), 0);
+  opacity:calc(0.62 + var(--hp,0)*.38);
 }
 .stage-giant .g2{
-  transform:translate3d(calc(var(--sp,0)*44vw), calc((1 - var(--hp2,0))*18vh), 0);
-  opacity:calc(0.35 + var(--hp2,0)*.65);
+  transform:translate3d(calc(var(--sp,0)*46vw), calc((1 - var(--hp2,0))*19vh), 0);
+  opacity:calc(0.42 + var(--hp2,0)*.58);
   margin-top:0;
 }
 .stage-veil{
@@ -152,18 +154,18 @@ html{scroll-behavior:auto}
 }
 .stage-floats .track{
   position:absolute;top:0;left:0;height:100%;display:flex;align-items:flex-start;
-  gap:clamp(32px,4.4vw,78px);padding-left:74vw;padding-right:84vw;will-change:transform,filter;
+  gap:clamp(30px,4.2vw,74px);padding-left:70vw;padding-right:80vw;will-change:transform,filter;
   transform-style:preserve-3d;
   filter:blur(calc(var(--scrub,0)*1.85px));
 }
 .float-card{
   pointer-events:auto;align-self:flex-start;height:auto;position:relative;flex:0 0 auto;
-  width:clamp(176px,17vw,258px);margin-top:var(--t);margin-left:var(--mx,0px);
+  width:clamp(180px,17.5vw,268px);margin-top:var(--t);margin-left:var(--mx,0px);
   transform:
     translate3d(0, calc(var(--bob,0)*1px - var(--lift,0)*1px + var(--rowy,0)*1px), var(--z,0px))
     rotateY(var(--ry,0deg))
     rotateX(var(--rx,0deg))
-    rotate(calc(var(--r) * (1 + var(--punch,0)*.22) + var(--spin,0deg) + var(--tilt,0deg) + var(--lean,0deg)))
+    rotate(calc(var(--r) * (1.08 + var(--punch,0)*.28) + var(--spin,0deg) + var(--tilt,0deg) + var(--lean,0deg)))
     scale(calc(var(--fs,1) * var(--enter,1) * (1 + var(--punch,0)*.22)));
   background:#fff;border-radius:12px;
   box-shadow:
@@ -270,7 +272,7 @@ html{scroll-behavior:auto}
   .stage-giant,.stage-floats{display:none}
 }
 @media (max-width:760px){
-  .stage{height:1780vh}
+  .stage{height:1880vh}
   .float-card{width:74vw}
   .stage-giant{font-size:34vw}
   .stage-floats{-webkit-mask-image:none;mask-image:none}

diff --git a/js/effects.js b/js/effects.js
@@ -74,11 +74,11 @@
       p0=easeOut(clamp(p/0.022));
       hp=easeInOut(clamp((p-0.008)/0.25));
       /* longer hold; crawl then glide across type */
-      const raw=clamp((p-0.52)/0.48);
+      const raw=clamp((p-0.50)/0.5);
       fp=Math.pow(easeInOut(raw), 0.7);
-      sp=Math.pow(clamp((fp-0.36)/0.64), 1.5);
-      gs=1-fp*0.28;
-      phase=p<0.03?'0':(p<0.54?'1':'2');
+      sp=Math.pow(clamp((fp-0.34)/0.66), 1.48);
+      gs=1-fp*0.27;
+      phase=p<0.03?'0':(p<0.52?'1':'2');
       onHero=hp<0.56;
     }
     return {y,vh,p0,hp,fp,sp,gs,phase,onHero,p};
@@ -103,27 +103,27 @@
       const speed=Math.min(2.8, Math.abs(dy)/16);
       vel=lerp(vel,speed,hard?1:expAlpha(5.8,dt));
       spin=lerp(spin, Math.max(-1.7, Math.min(1.7, dy/30)), hard?1:expAlpha(4.2,dt));
-      coast=hard?0:lerp(coast + dy*0.00034, 0, expAlpha(0.95,dt));
-      const boost=1+vel*0.22;
-      const look=hard?0:Math.max(-0.08, Math.min(0.08, (dy/520)*0.045));
-      smooth.p0=lerp(smooth.p0,t.p0,hard?1:expAlpha(6.4*boost,dt));
-      /* dual-stage wipe; --hw leads type for peel-ahead curtain */
-      smooth.hpMid=lerp(smooth.hpMid,t.hp,hard?1:expAlpha(4.6*boost,dt));
-      smooth.hp=lerp(smooth.hp,smooth.hpMid,hard?1:expAlpha(3.5*boost,dt));
-      smooth.hw=lerp(smooth.hw, clamp(t.hp*1.14), hard?1:expAlpha(5.4*boost,dt));
+      coast=hard?0:lerp(coast + dy*0.00038, 0, expAlpha(0.85,dt));
+      const boost=1+vel*0.2;
+      const look=hard?0:Math.max(-0.09, Math.min(0.09, (dy/480)*0.05));
+      smooth.p0=lerp(smooth.p0,t.p0,hard?1:expAlpha(6.0*boost,dt));
+      /* dual-stage wipe; --hw leads type gently for peel-ahead curtain */
+      smooth.hpMid=lerp(smooth.hpMid,t.hp,hard?1:expAlpha(4.3*boost,dt));
+      smooth.hp=lerp(smooth.hp,smooth.hpMid,hard?1:expAlpha(3.25*boost,dt));
+      smooth.hw=lerp(smooth.hw, clamp(t.hp*1.06), hard?1:expAlpha(4.7*boost,dt));
       /* second line lags first for staggered reveal */
-      smooth.hp2=lerp(smooth.hp2, clamp((t.hp-0.24)/0.76), hard?1:expAlpha(2.55*boost,dt));
+      smooth.hp2=lerp(smooth.hp2, clamp((t.hp-0.24)/0.76), hard?1:expAlpha(2.4*boost,dt));
       /* look-ahead creamier spring scrub (softer ω) + display lerp */
       if(hard){spring.fp=t.fp;spring.v=0;spring.sp=t.sp;spring.sv=0;smooth.fpVis=t.fp;}
       else{
-        const s1=springStep(spring.fp, spring.v, clamp(t.fp + coast + look), dt, 2.0*boost);
+        const s1=springStep(spring.fp, spring.v, clamp(t.fp + coast + look), dt, 1.85*boost);
         spring.fp=s1.x; spring.v=s1.v;
-        const s2=springStep(spring.sp, spring.sv, t.sp, dt, 1.55*boost);
+        const s2=springStep(spring.sp, spring.sv, t.sp, dt, 1.4*boost);
         spring.sp=s2.x; spring.sv=s2.v;
       }
       smooth.fp=spring.fp;
       smooth.sp=spring.sp;
-      smooth.fpVis=hard?spring.fp:lerp(smooth.fpVis, spring.fp, expAlpha(6.6*boost,dt));
+      smooth.fpVis=hard?spring.fp:lerp(smooth.fpVis, spring.fp, expAlpha(5.8*boost,dt));
       smooth.gs=lerp(smooth.gs,t.gs,hard?1:expAlpha(4.4,dt));
       smooth.ps=lerp(smooth.ps,t.p||0,hard?1:expAlpha(3.8*boost,dt));
       const impulse=hard?0:Math.max(-0.028, Math.min(0.028, dy/1200));
@@ -183,7 +183,7 @@
           const ry=(nx*-38 - spin*5.6).toFixed(2)+'deg';
           const rx=(prox*-11 + Math.sin(fpV*1.9+i)*2.6).toFixed(2)+'deg';
           const row=parseFloat(c.dataset.row||'0')||0;
-          const lean=((row?1:-1)* (6 + punch*10)).toFixed(2)+'deg';
+          const lean=((row?1:-1)* (9 + punch*14)).toFixed(2)+'deg';
           /* high/low corridor opens as scrub progresses — type peeks mid-band */
           const rowDir=row?1:-1;
           const rowy=rowDir*(30 + fpV*92 + punch*64)*-1;
@@ -252,7 +252,7 @@
   function goShot(name){
     if(!stage||reduce)return;
     const top=stage.offsetTop,len=Math.max(1,stage.offsetHeight-innerHeight);
-    const map={hero:0.02,wipe:0.32,midwipe:0.11,peek:0.54,stage1:0.32,cards:0.74,stage2:0.74,stage0:0.02,stage3:0.94};
+    const map={hero:0.02,wipe:0.30,midwipe:0.12,peek:0.56,stage1:0.30,cards:0.62,stage2:0.62,stage0:0.02,stage3:0.94};
     const p=map[name];
     if(p==null)return;
     scrollTo(0, top+len*p);

diff --git a/frame-midwipe.html b/frame-midwipe.html
@@ -3,8 +3,8 @@
 <meta charset="utf-8"/><meta name="viewport" content="width=device-width,initial-scale=1"/>
 <title>Stage frame · midwipe</title>
 <link href="https://fonts.googleapis.com/css2?family=Bodoni+Moda:opsz,wght@6..96,400;6..96,500&family=Inter:wght@300;400;500&display=swap" rel="stylesheet"/>
-<link rel="stylesheet" href="css/style.css?v=22"/>
-<link rel="stylesheet" href="css/effects.css?v=22"/>
+<link rel="stylesheet" href="css/style.css?v=23"/>
+<link rel="stylesheet" href="css/effects.css?v=23"/>
 <style>
   body{margin:0;overflow:hidden;background:#F4F2EF}
   .site-header{position:fixed}
@@ -23,7 +23,7 @@
   <div class="header-right"><a href="products.html">Search</a><a href="about.html">关于</a><a href="contact.html">联系</a></div>
 </header>
 
-<section class="stage" data-stage data-phase="1" style="--p0:1;--hp:0.6;--hp2:0.44;--hw:0.75;--fp:0;--sp:0;--gs:1;--hold:0;--pop:0;--cross:0;--scrub:0;--depth:0;--ps:0.11;--p:0.11">
+<section class="stage" data-stage data-phase="1" style="--p0:1;--hp:0.52;--hp2:0.36;--hw:0.58;--fp:0;--sp:0;--gs:1;--hold:0;--pop:0;--cross:0;--scrub:0;--depth:0;--ps:0.12;--p:0.12">
   <div class="stage-pin">
     <div class="stage-cream" aria-hidden="true"></div>
     <div class="stage-giant" aria-hidden="true"><span class="g1">探索</span><span class="g2">新面料</span></div>

diff --git a/frame-wipe.html b/frame-wipe.html
@@ -3,8 +3,8 @@
 <meta charset="utf-8"/><meta name="viewport" content="width=device-width,initial-scale=1"/>
 <title>Stage frame · wipe</title>
 <link href="https://fonts.googleapis.com/css2?family=Bodoni+Moda:opsz,wght@6..96,400;6..96,500&family=Inter:wght@300;400;500&display=swap" rel="stylesheet"/>
-<link rel="stylesheet" href="css/style.css?v=22"/>
-<link rel="stylesheet" href="css/effects.css?v=22"/>
+<link rel="stylesheet" href="css/style.css?v=23"/>
+<link rel="stylesheet" href="css/effects.css?v=23"/>
 <style>
   body{margin:0;overflow:hidden;background:#F4F2EF}
   .site-header{position:fixed}
@@ -23,7 +23,7 @@
   <div class="header-right"><a href="products.html">Search</a><a href="about.html">关于</a><a href="contact.html">联系</a></div>
 </header>
 
-<section class="stage" data-stage data-phase="1" style="--p0:1;--hp:1;--hp2:1;--hw:1;--fp:0;--sp:0;--gs:1;--hold:1;--pop:0.95;--cross:0;--scrub:0;--depth:0;--ps:0.32;--p:0.32">
+<section class="stage" data-stage data-phase="1" style="--p0:1;--hp:1;--hp2:1;--hw:1;--fp:0;--sp:0;--gs:1;--hold:1;--pop:0.95;--cross:0;--scrub:0;--depth:0;--ps:0.30;--p:0.30">
   <div class="stage-pin">
     <div class="stage-cream" aria-hidden="true"></div>
     <div class="stage-giant" aria-hidden="true"><span class="g1">探索</span><span class="g2">新面料</span></div>

diff --git a/products.html b/products.html
@@ -8,8 +8,8 @@
 <link rel="preconnect" href="https://fonts.googleapis.com" />
 <link rel="preconnect" href="https://fonts.gstatic.com" crossorigin />
 <link href="https://fonts.googleapis.com/css2?family=Bodoni+Moda:opsz,wght@6..96,400;6..96,500;6..96,600&family=Inter:wght@300;400;500&display=swap" rel="stylesheet" />
-<link rel="stylesheet" href="css/style.css?v=22" />
-<link rel="stylesheet" href="css/effects.css?v=22" />
+<link rel="stylesheet" href="css/style.css?v=23" />
+<link rel="stylesheet" href="css/effects.css?v=23" />
 </head>
 <body>
 <a class="side-rail left" href="products.html">色卡目录</a>
@@ -213,5 +213,5 @@
   <div>Yarn-Dyed Lookbook</div>
 </footer>
 <script src="js/main.js?v=17"></script>
-<script src="js/effects.js?v=22"></script>
+<script src="js/effects.js?v=23"></script>
 </body></html>

diff --git a/about.html b/about.html
@@ -8,8 +8,8 @@
 <link rel="preconnect" href="https://fonts.googleapis.com" />
 <link rel="preconnect" href="https://fonts.gstatic.com" crossorigin />
 <link href="https://fonts.googleapis.com/css2?family=Bodoni+Moda:opsz,wght@6..96,400;6..96,500;6..96,600&family=Inter:wght@300;400;500&display=swap" rel="stylesheet" />
-<link rel="stylesheet" href="css/style.css?v=22" />
-<link rel="stylesheet" href="css/effects.css?v=22" />
+<link rel="stylesheet" href="css/style.css?v=23" />
+<link rel="stylesheet" href="css/effects.css?v=23" />
 </head>
 <body>
 <a class="side-rail left" href="products.html">色卡目录</a>
@@ -68,5 +68,5 @@
   <div>Yarn-Dyed Lookbook</div>
 </footer>
 <script src="js/main.js?v=17"></script>
-<script src="js/effects.js?v=22"></script>
+<script src="js/effects.js?v=23"></script>
 </body></html>

diff --git a/contact.html b/contact.html
@@ -8,8 +8,8 @@
 <link rel="preconnect" href="https://fonts.googleapis.com" />
 <link rel="preconnect" href="https://fonts.gstatic.com" crossorigin />
 <link href="https://fonts.googleapis.com/css2?family=Bodoni+Moda:opsz,wght@6..96,400;6..96,500;6..96,600&family=Inter:wght@300;400;500&display=swap" rel="stylesheet" />
-<link rel="stylesheet" href="css/style.css?v=22" />
-<link rel="stylesheet" href="css/effects.css?v=22" />
+<link rel="stylesheet" href="css/style.css?v=23" />
+<link rel="stylesheet" href="css/effects.css?v=23" />
 </head>
 <body>
 <a class="side-rail left" href="products.html">色卡目录</a>
@@ -72,5 +72,5 @@
   <div>Yarn-Dyed Lookbook</div>
 </footer>
 <script src="js/main.js?v=17"></script>
-<script src="js/effects.js?v=22"></script>
+<script src="js/effects.js?v=23"></script>
 </body></html>

diff --git a/frame-hero.html b/frame-hero.html
@@ -3,8 +3,8 @@
 <meta charset="utf-8"/><meta name="viewport" content="width=device-width,initial-scale=1"/>
 <title>Stage frame · hero</title>
 <link href="https://fonts.googleapis.com/css2?family=Bodoni+Moda:opsz,wght@6..96,400;6..96,500&family=Inter:wght@300;400;500&display=swap" rel="stylesheet"/>
-<link rel="stylesheet" href="css/style.css?v=22"/>
-<link rel="stylesheet" href="css/effects.css?v=22"/>
+<link rel="stylesheet" href="css/style.css?v=23"/>
+<link rel="stylesheet" href="css/effects.css?v=23"/>
 <style>
   body{margin:0;overflow:hidden;background:#F4F2EF}
   .site-header{position:fixed}

diff --git a/DESIGN-NOTES.md b/DESIGN-NOTES.md
@@ -3,12 +3,12 @@
 Reference: https://etrotextiles.etro.com/ (public pages only).
 Original CSS/JS + licensed fabric photos. No Etro assets/logos/fonts/code.
 
-| Etro effect | Henglong polish (v22 stage) |
+| Etro effect | Henglong polish (v23 stage) |
 |---|---|
-| Pinned full-screen stage | Sticky 100svh/lvh pin ~2200vh; locked |
-| Hero wipe | `--hw` peel-ahead; cream lag; slight curtain rotate |
-| Giant DISCOVER headline | Cross-reactive scale/spacing; denser midwipe |
-| Tilted cards crossing type | `--zi` depth sort; punch brightness; taller rowy |
-| Smooth scrub | ω≈2.0/1.55 + skew smear + slower fpVis |
+| Pinned full-screen stage | Sticky 100svh/lvh pin ~2320vh; locked |
+| Hero wipe | Gentler `--hw` lead (×1.06); wider soft curtain; more midwipe fabric |
+| Giant DISCOVER headline | Inker midwipe; stronger g1/g2 opacity |
+| Tilted cards crossing type | Stronger `--r`/`--lean`; denser mid-cross shot |
+| Smooth scrub | Softer ω≈1.85/1.4 + longer coast |
 
 QA: `frame-hero|midwipe|wipe|peek|cards.html`
